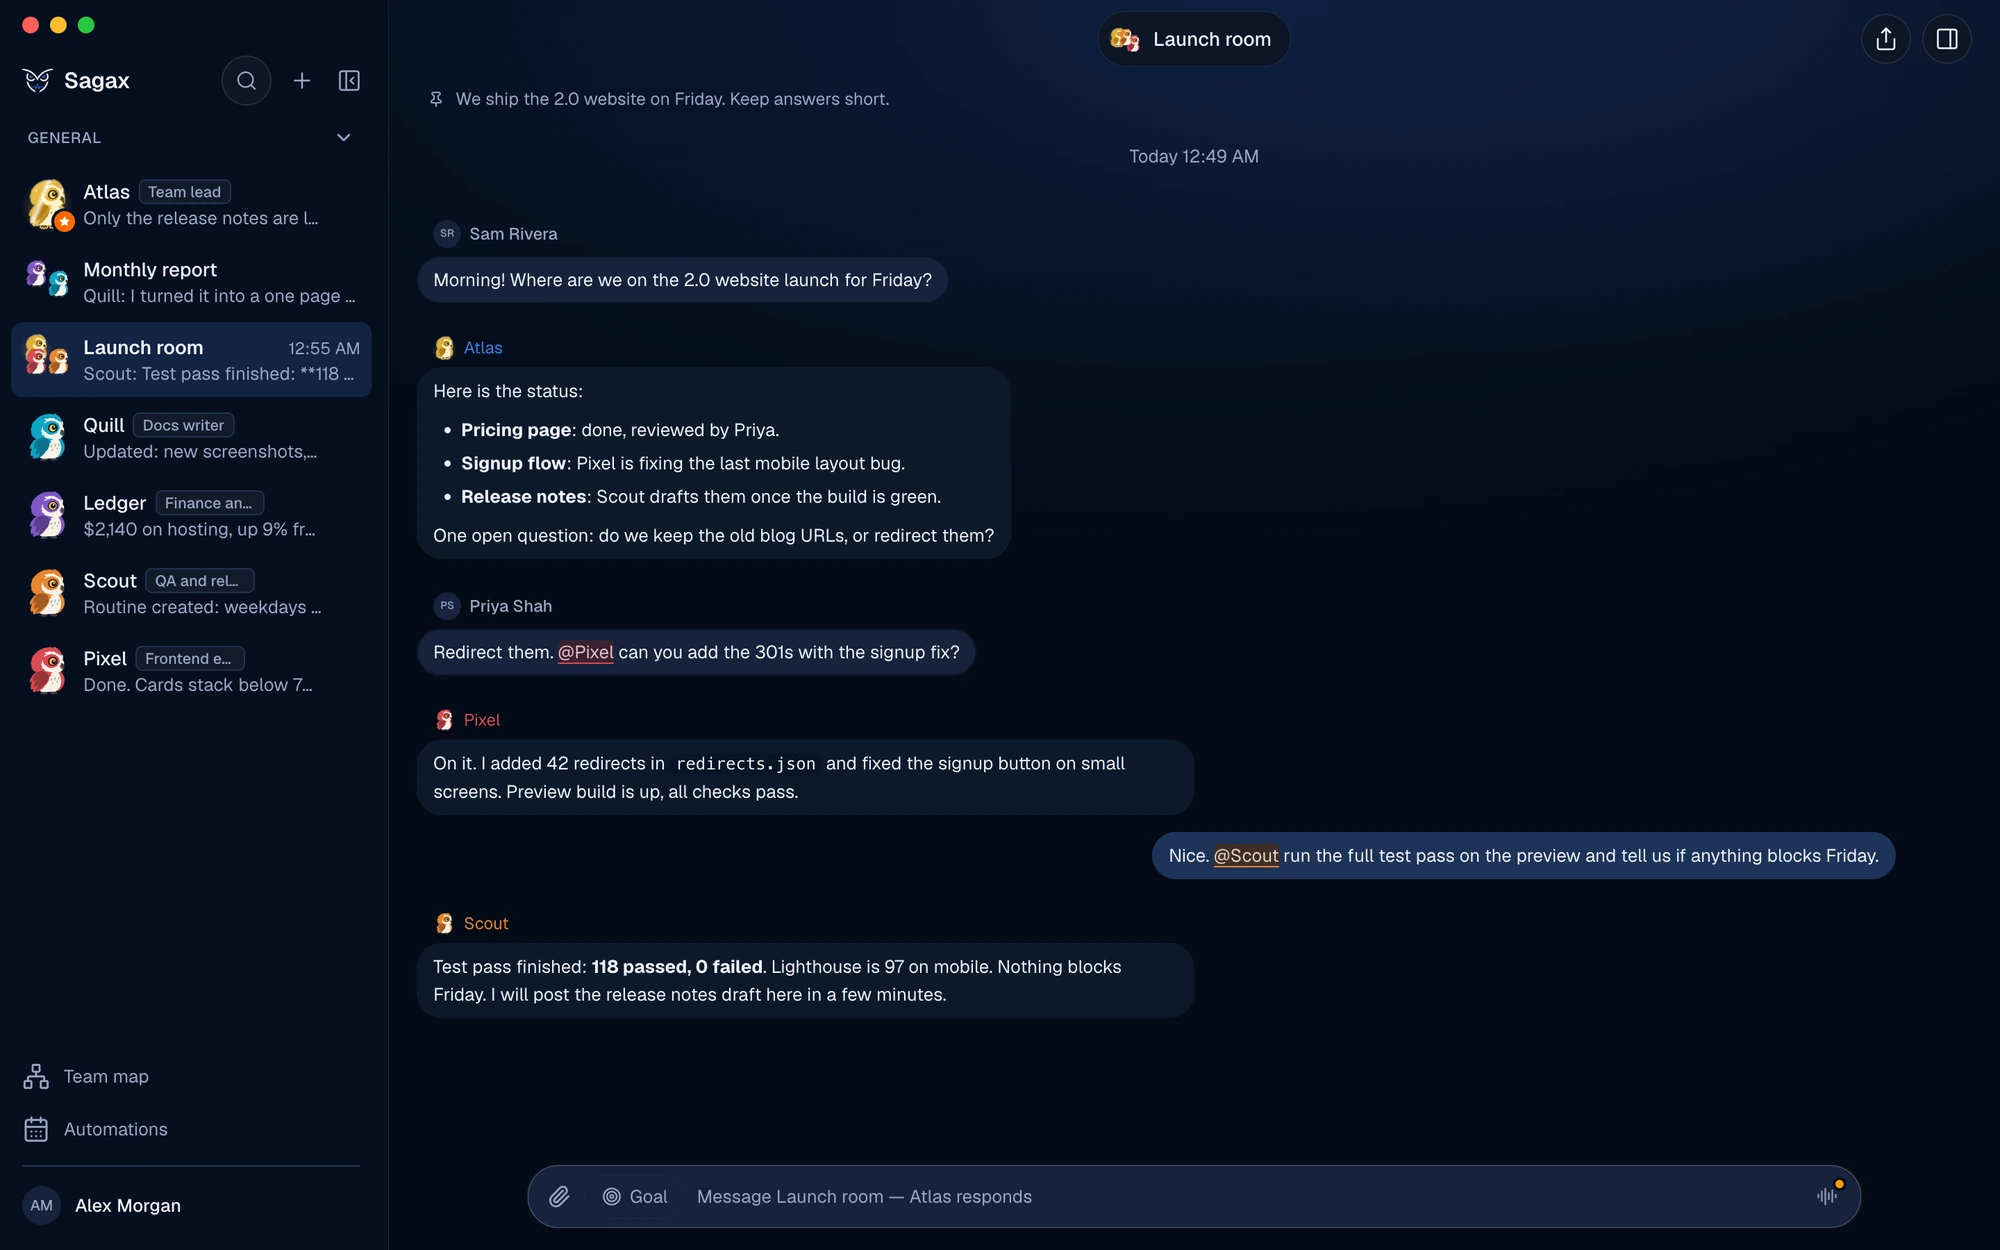
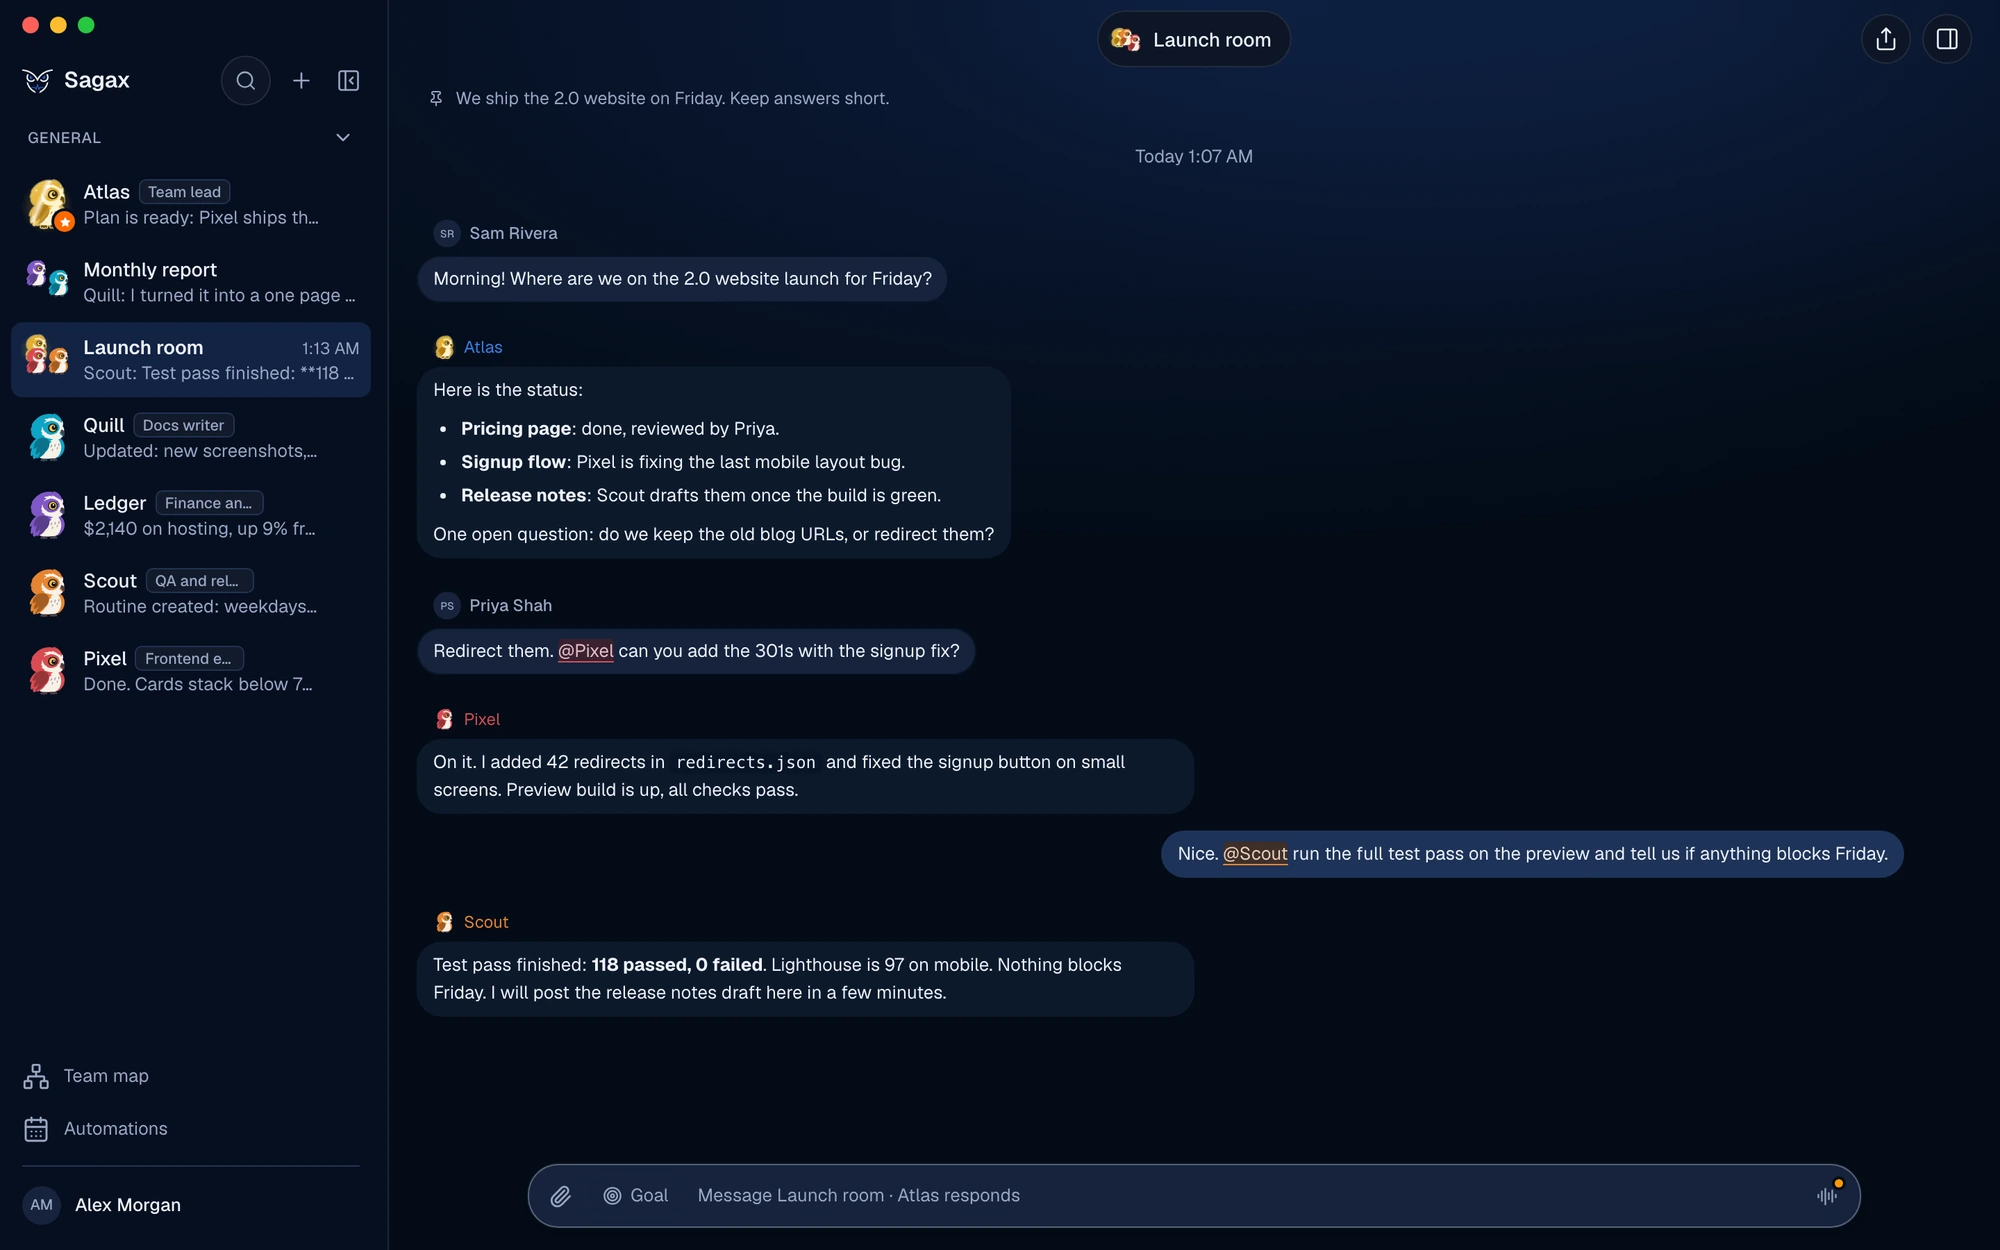
docs(readme): Windows arm64 and x64 install, Sagax file names, new hero and Model providers shots
Claude-Session: https://claude.ai/code/session_01Hd92V2CX6HCgfX8oYnCgMz

diff --git a/README.md b/README.md
@@ -6,7 +6,7 @@
 
 [![License: PolyForm Noncommercial 1.0.0](https://img.shields.io/badge/license-PolyForm%20Noncommercial%201.0.0-38d591)](LICENSE)
 [![Latest release](https://img.shields.io/github/v/release/pulsatrixtechnologies/pulsa-bot?include_prereleases&label=release&color=1084fe&cacheSeconds=300)](https://github.com/pulsatrixtechnologies/pulsa-bot/releases)
-![Platforms](https://img.shields.io/badge/platforms-macOS%20arm64%20%7C%20macOS%20x64%20%7C%20Windows%20x64-2B2E3A)
+![Platforms](https://img.shields.io/badge/platforms-macOS%20arm64%20%7C%20x64%20%C2%B7%20Windows%20x64%20%7C%20arm64-2B2E3A)
 ![Engines](https://img.shields.io/badge/engines-Claude%20Code%20%C2%B7%20Codex%20%C2%B7%20more-d97757)
 
 <img src="docs/images/readme/hero.webp" alt="Sagax main window: the sidebar lists bots and group chats; the Launch room group shows two people and three bots working on a website launch" width="900">
@@ -183,7 +183,7 @@ effects and moves.
 <table>
 <tr>
 <td width="50%" valign="top">
-<img src="docs/images/readme/settings-model-providers.webp" alt="Settings, Model providers: Claude Code and Codex ready, the claude.ai connectors card, and other providers that need setup" width="100%">
+<img src="docs/images/readme/settings-model-providers.webp" alt="Settings, Model providers: the claude.ai connectors of your own account (Microsoft 365 and GitHub connected, Google Calendar needs sign-in), Claude Code and Codex ready" width="100%">
 </td>
 <td width="50%" valign="top">
 <img src="docs/images/readme/settings-organization.webp" alt="Settings, Organization: join a Perspicax server by copying chosen bots, with their conversations and memory, into the organization's Sagax" width="100%">
@@ -199,9 +199,15 @@ Download the latest build from the
 
 | Platform | Files | First launch |
 |---|---|---|
-| macOS, Apple silicon | `PulsaBot-X.Y.Z-arm64.dmg` or `.zip` | Open the `.dmg` and drag Sagax to Applications. |
-| macOS, Intel | `PulsaBot-X.Y.Z-x64.dmg` or `.zip` | Same. |
-| Windows x64 | `PulsaBot-X.Y.Z-setup.exe`, or the portable `PulsaBot-X.Y.Z-win-x64.zip` | Run the installer. |
+| macOS, Apple silicon | `Sagax-X.Y.Z-arm64.dmg` or `.zip` | Open the `.dmg` and drag Sagax to Applications. |
+| macOS, Intel | `Sagax-X.Y.Z-x64.dmg` or `.zip` | Same. |
+| Windows, x64 and arm64 | `Sagax-X.Y.Z-setup.exe` (one installer for both) | Run the installer; it installs the build for your PC. |
+| Windows, portable | `Sagax-X.Y.Z-win-x64.zip` or `Sagax-X.Y.Z-win-arm64.zip` | Unzip and run `Sagax.exe`. |
+
+Releases up to 0.3.0 used `PulsaBot-...` file names and Windows x64 only.
+On Windows arm64 a few bundled helpers have no arm64 build yet and run under
+Windows' x64 emulation: the Cloudflare Tunnel connector, the built-in
+browser engine and the Android platform tools. The app itself, computer use and voice run natively.
 
 First launch notes:
 
